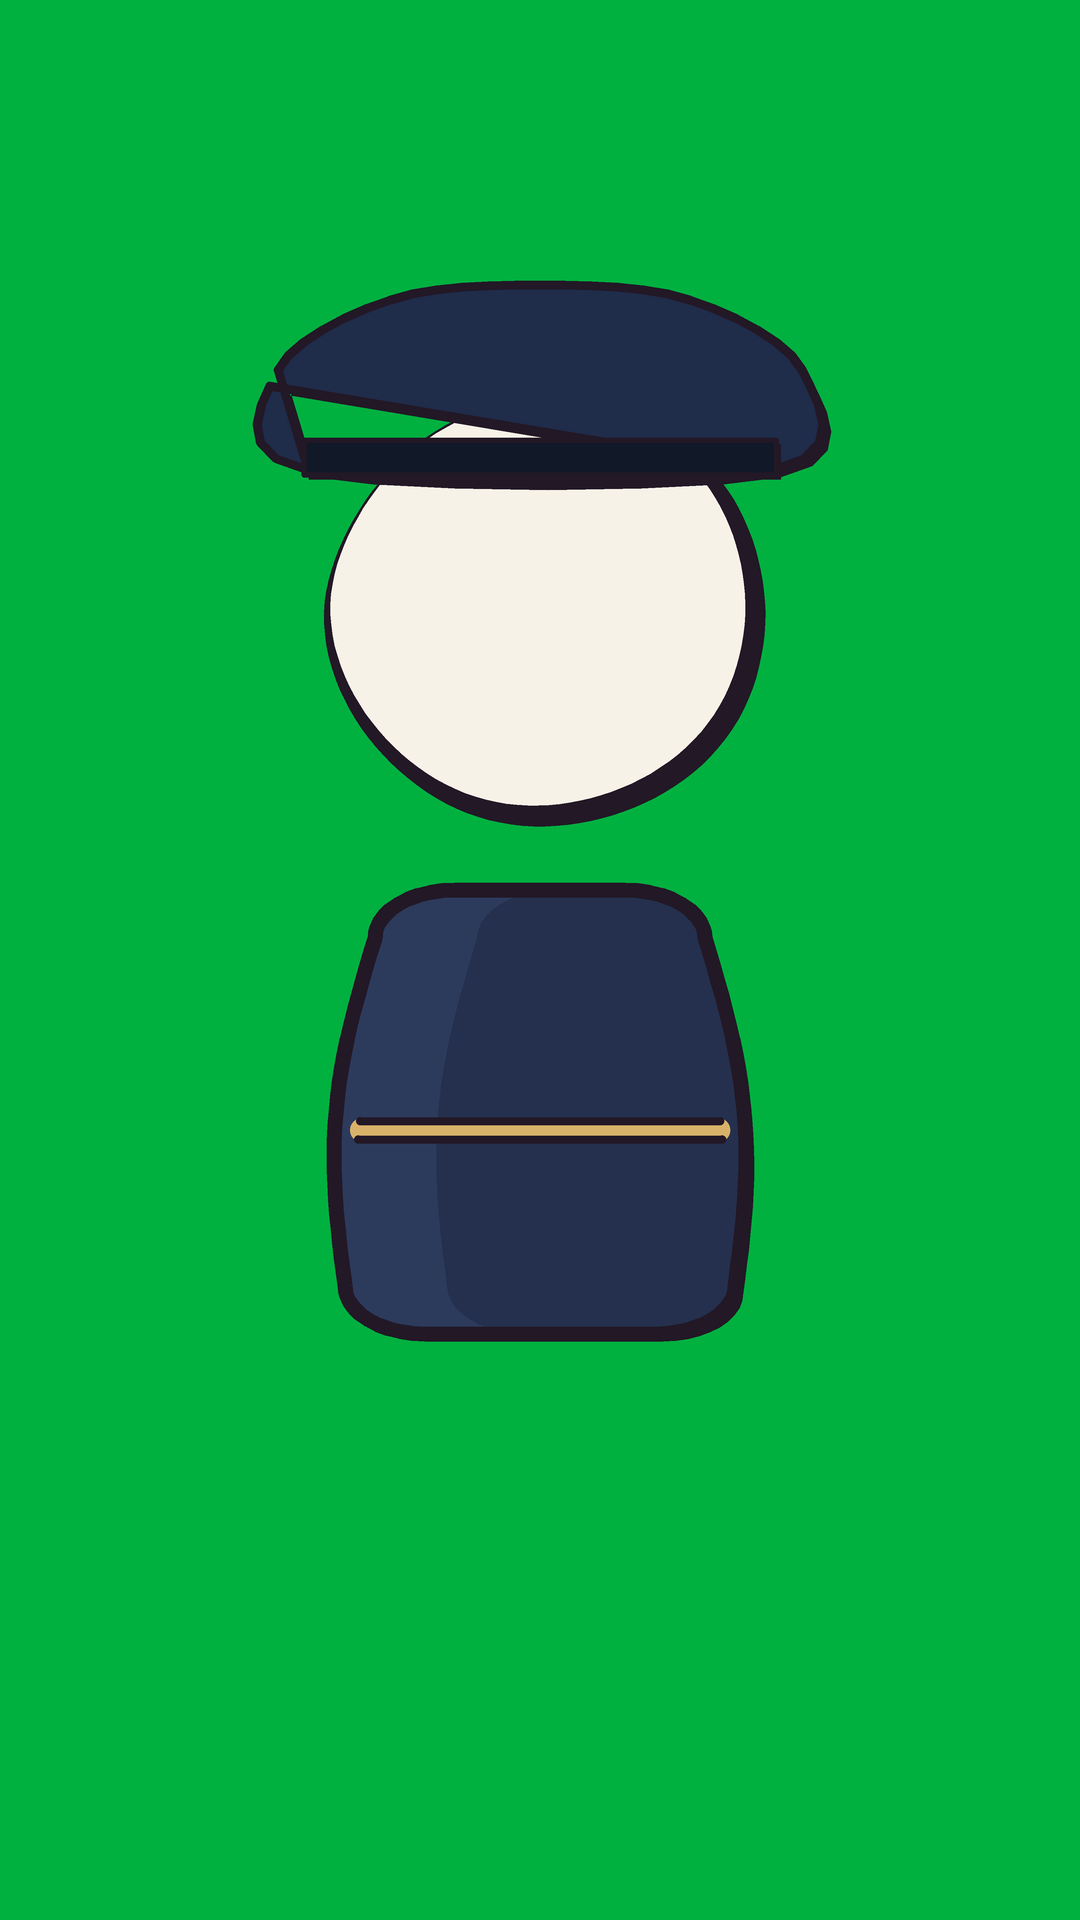
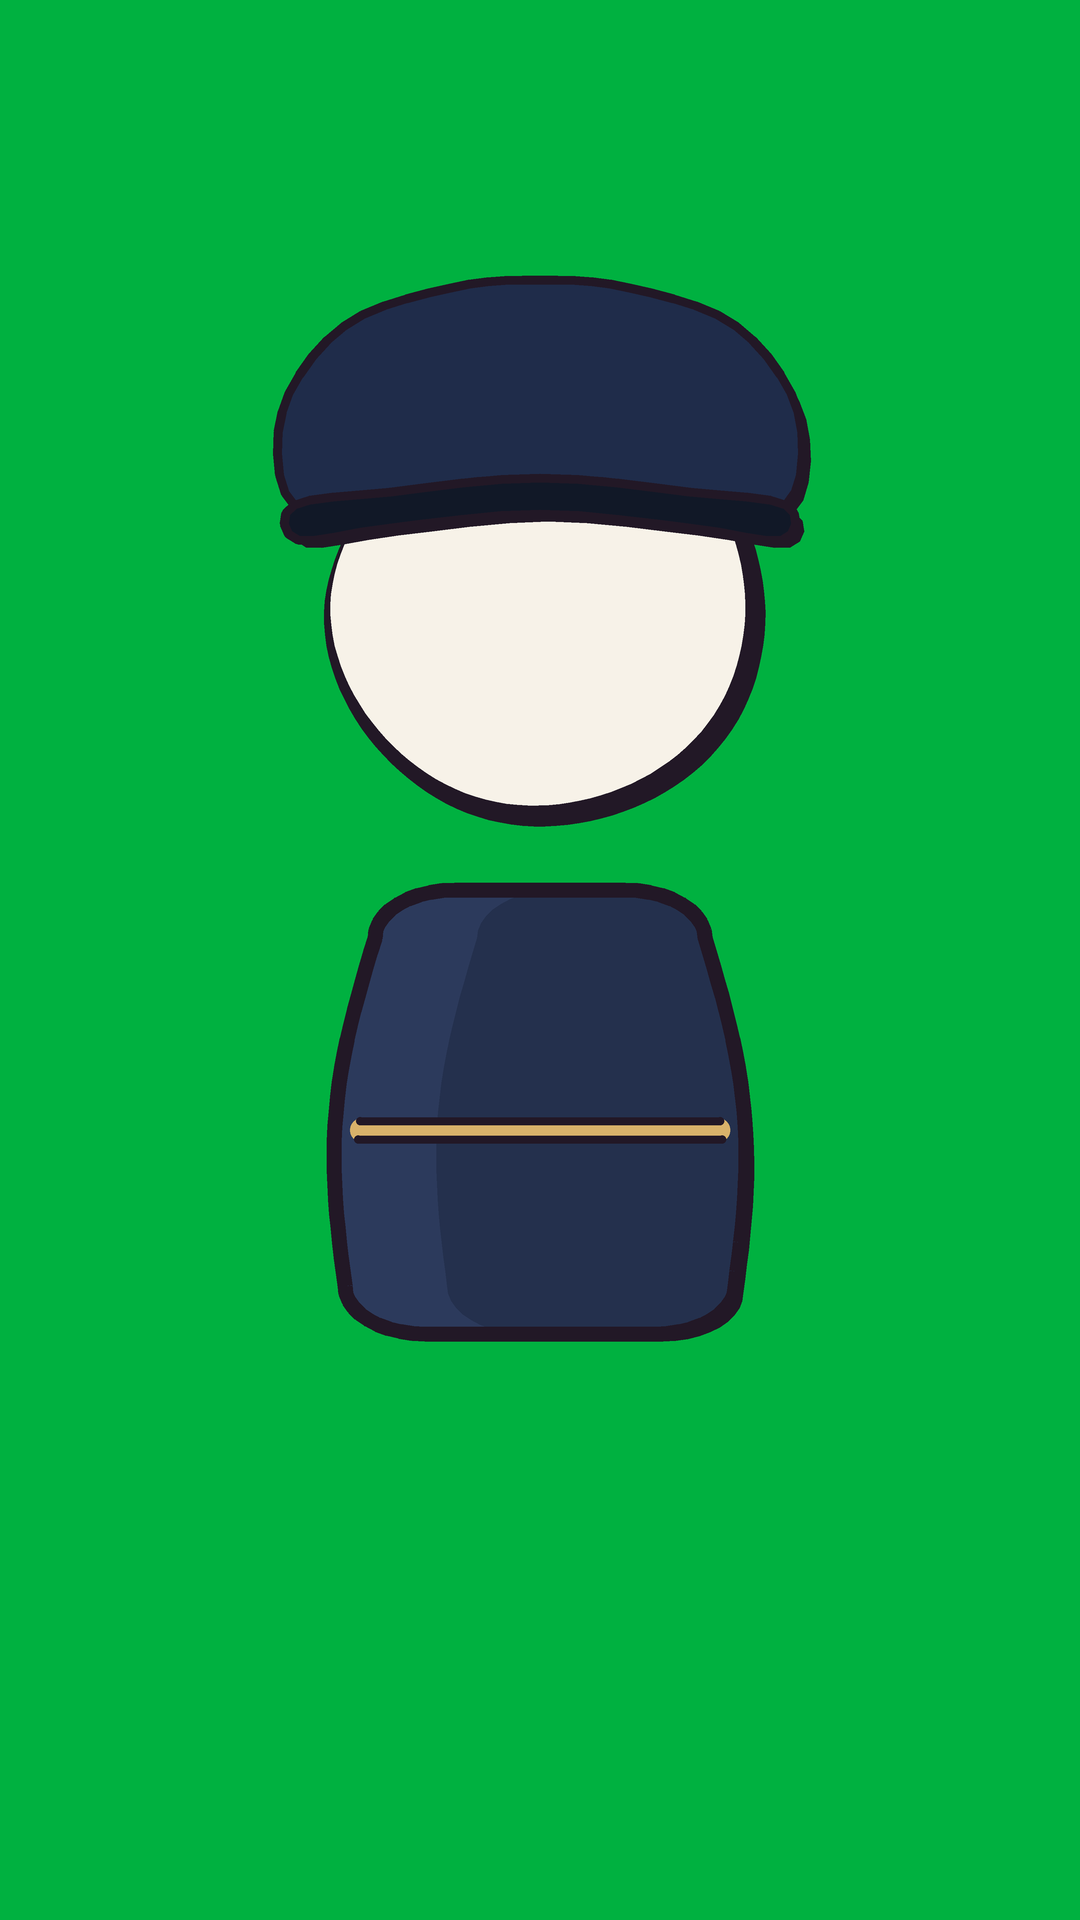
pm: connected police cap (crown+band+visor), restored FIRE shape

Changed region(s): [[0.2139, 0.1562, 0.7639, 0.3125], [0.4278, 0.125, 0.55, 0.1562]]

diff --git a/projects/the-puppet-master/tools/mk_pm.py b/projects/the-puppet-master/tools/mk_pm.py
@@ -140,13 +140,12 @@ def hair_aren(d,view='F'):
     strands(d,[[(CX-120,330),(CX-80,430),(CX-90,540)],[(CX+20,250),(CX+40,380),(CX+60,560)],[(CX+150,300),(CX+170,420),(CX+170,560)],[(CX-210,420),(CX-205,520),(CX-205,590)]],hexc('#2a2a3c'),4)
 # ---- Guard (C02): navy peaked cap, black visor, gold badge ----
 def cap_guard(d,view='F'):
-    navy=hexc('#1f2c4a'); gold=hexc('#e2b23c'); blk=hexc('#121018')
-    poly(d,cr([(CX-232,470),(CX-262,370),(CX-150,300),(CX,285),(CX+150,300),(CX+262,370),(CX+232,470)],6)+[(CX+232,470),(CX-232,470)],navy)
-    poly(d,[(CX-236,475),(CX-236,440),(CX+236,440),(CX+236,475)],hexc('#111827'),lw=9*K)
-    if view!='B':
-        poly(d,cr([(CX-215,470),(CX,445),(CX+215,470),(CX+150,540),(CX,555),(CX-150,540)],6),blk)
-        poly(d,[(CX-40,330),(CX,300),(CX+40,330),(CX+30,395),(CX,410),(CX-30,395)],gold,lw=7*K)
-        hl(d,[(CX-160,330),(CX-70,305),(CX-60,320),(CX-150,345)],navy)
+    navy=hexc('#1f2c4a'); gold=hexc('#e2b23c'); blk=hexc('#121018'); band=hexc('#111827')
+    # one connected cap: visor (drawn first, its top edge hides under the band) -> crown -> curved hat band -> badge (no wedge of face between the pieces, crown no wider than the skull + a little)
+    if view!='B': poly(d,cr([(CX-204,520),(CX-100,508),(CX,503),(CX+100,508),(CX+204,520),(CX+178,553),(CX+90,570),(CX,576),(CX-90,570),(CX-178,553)],5),blk)
+    poly(d,cr([(CX-246,505),(CX-258,412),(CX-196,326),(CX-90,288),(CX,280),(CX+90,288),(CX+196,326),(CX+258,412),(CX+246,505),(CX+150,492),(CX,478),(CX-150,492)],5),navy)
+    poly(d,cr([(CX-246,505),(CX-150,492),(CX,478),(CX+150,492),(CX+246,505),(CX+242,540),(CX+150,528),(CX,514),(CX-150,528),(CX-242,540)],4),band)
+    if view!='B': poly(d,[(CX-40,352),(CX,322),(CX+40,352),(CX+32,418),(CX,436),(CX-32,418)],gold,lw=7*K)
 # ---- Fire man (C03): tall orange flame spikes with yellow tips ----
 FIRE=[(CX-236,600),(CX-250,470),(CX-300,330),(CX-200,380),(CX-210,200),(CX-110,320),(CX-60,120),(CX+10,300),(CX+90,110),(CX+120,310),(CX+230,190),(CX+200,370),(CX+300,320),(CX+250,470),(CX+236,600),(CX+190,500),(CX+110,450),(CX,470),(CX-110,450),(CX-190,500)]
 def hair_fire(d,view='F'):
